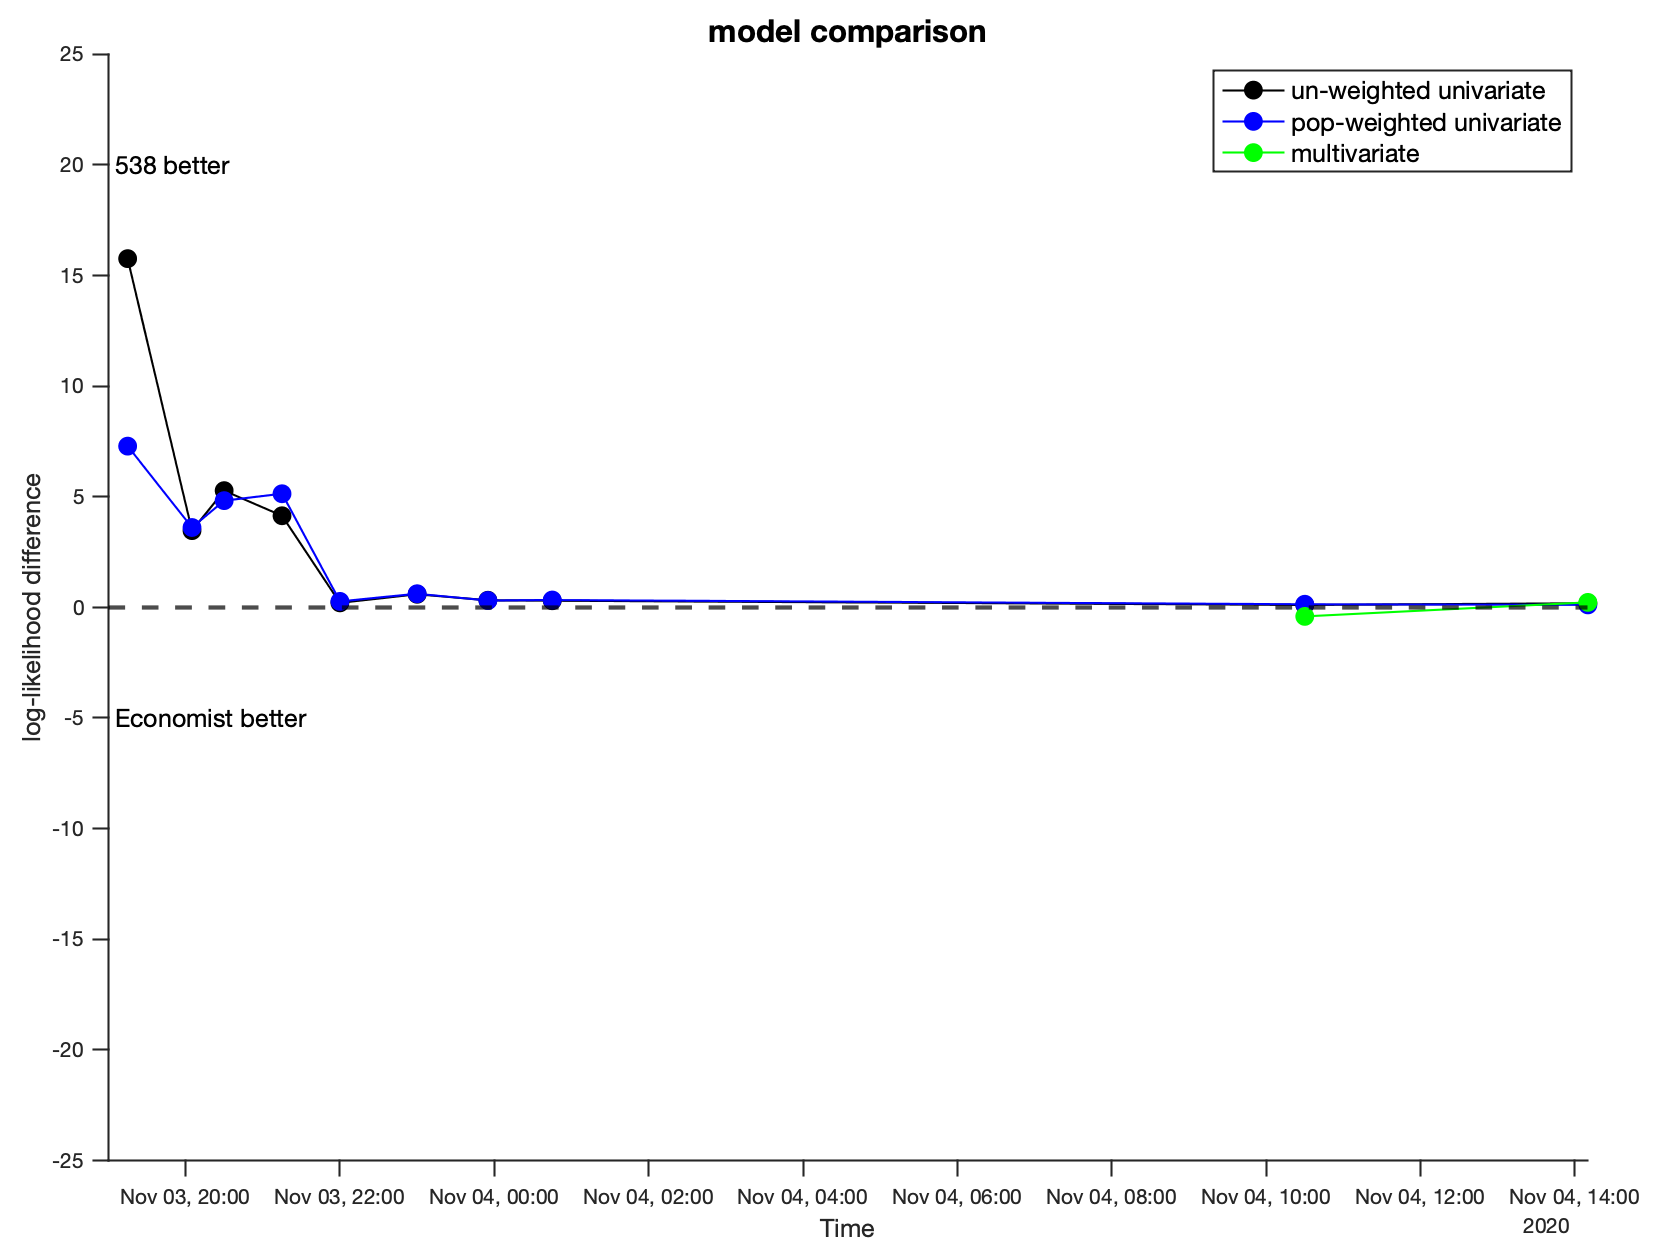
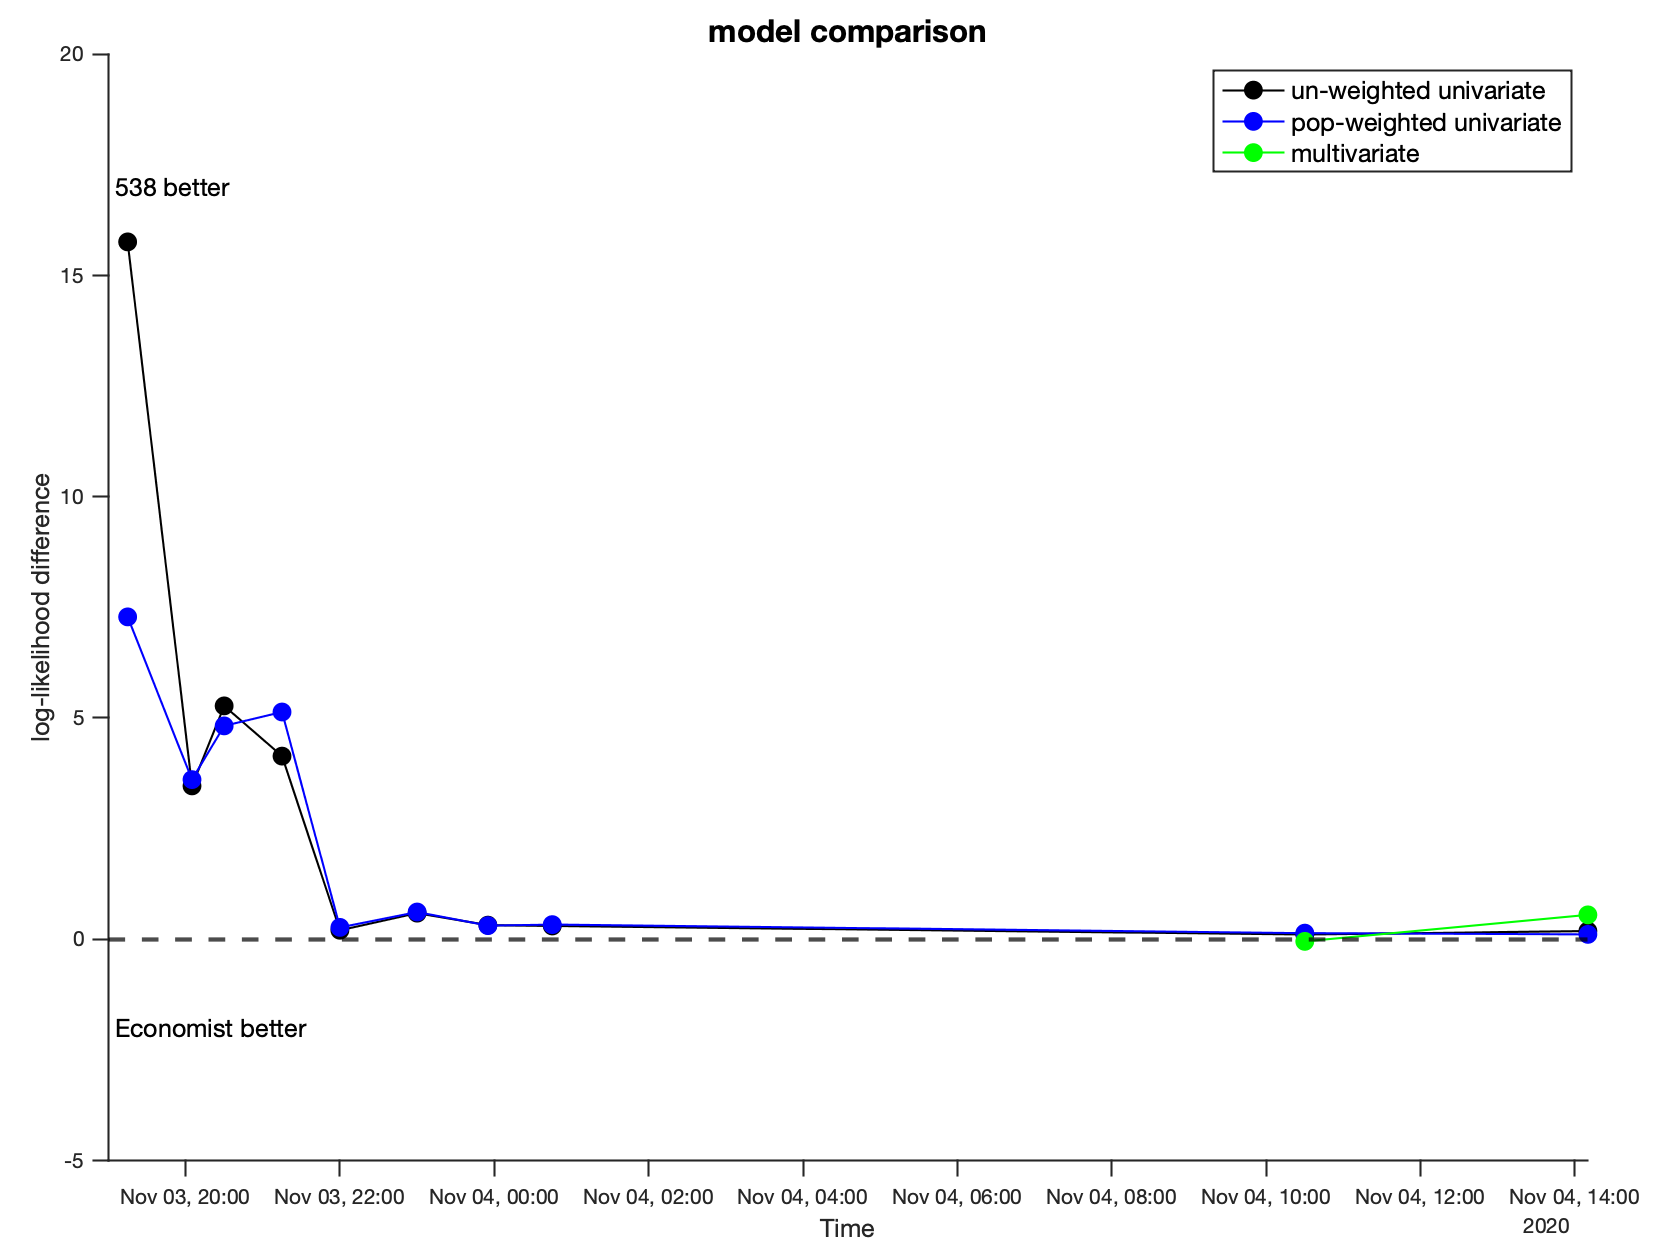
update

diff --git a/compare_models.m b/compare_models.m
@@ -74,10 +74,11 @@ tot_wt_lik_Econ = sum(log(eps + lik_Econ) .* isfinite(r) .* repPopWt./sum(repPop
 
 
 % multivariate model
-mvlik_538 = mvksdensity(d_538, d_r', 'bandwidth', 2*mean([mb_538(ss); mb_Econ(ss)],1), 'Kernel', 'epanechnikov');
-mvlik_Econ = mvksdensity(d_Econ, d_r', 'bandwidth', 2*mean([mb_538(ss); mb_Econ(ss)],1), 'Kernel', 'epanechnikov');
+mvlik_538 = mvksdensity(d_538, d_r', 'bandwidth', 2*mean([mb_538; mb_Econ],1), 'Kernel', 'epanechnikov');
+mvlik_Econ = mvksdensity(d_Econ, d_r', 'bandwidth', 2*mean([mb_538; mb_Econ],1), 'Kernel', 'epanechnikov');
 
 tot_mv_likDif = log(eps+mvlik_538) - log(eps+mvlik_Econ);
+mv_sel = all(isfinite(r));
 
 
 % plot
@@ -88,55 +89,14 @@ tiledlayout('flow','TileSpacing', 'compact', 'Padding', 'compact');
 nexttile;hold on;
 
 p1=plot(curTime, tot_lik_538 - tot_lik_Econ, '-ok', 'LineWidth', 1, 'MarkerFaceColor', 'k', 'MarkerSize', 8);
+p2=plot(curTime, tot_wt_lik_538 - tot_wt_lik_Econ, '-ob', 'LineWidth', 1, 'MarkerFaceColor', 'b', 'MarkerSize', 8);
+p3=plot(curTime(mv_sel), tot_mv_likDif(mv_sel), '-og', 'LineWidth', 1, 'MarkerFaceColor', 'g', 'MarkerSize', 8);
+
 yline(0, '--k', 'LineWidth', 2);
 
-text(datetime([2020 11 3 19 05 00]), 20, '538 better', 'FontSize', 12)
-text(datetime([2020 11 3 19 05 00]), -5, 'Economist better', 'FontSize', 12)
-ylim([min(-25, f_ModelCompare.Children.Children.YLim(1)), max(25, f_ModelCompare.Children.Children.YLim(2))]);
-xlim([datetime([2020 11 3 19 00 00]), max(datetime([2020 11 4 00 00 00]), max(curTime))])
-
-% legend({'', 'population-weighted'}, 'Location', 'northeast','FontSize', 10)
-
-title('un-weighted model comparison', 'FontSize', 15)
-xlabel('Time', 'FontSize', 12)
-ylabel('log-likelihood difference', 'FontSize', 12)
-set(gca, 'TickDir', 'out', 'LineWidth', 1)
-
-
-
-
-% nexttile;hold on;
-
-p2=plot(curTime, tot_wt_lik_538 - tot_wt_lik_Econ, '-ob', 'LineWidth', 1, 'MarkerFaceColor', 'b', 'MarkerSize', 8);
-% yline(0, '--k', 'LineWidth', 2);
-
-
-% text(datetime([2020 11 3 19 05 00]), 20, '538 better', 'FontSize', 12)
-% text(datetime([2020 11 3 19 05 00]), -20, 'Economist better', 'FontSize', 12)
-ylim([min(-25, f_ModelCompare.Children.Children(1).YLim(1)), max(25, f_ModelCompare.Children.Children(1).YLim(2))]);
-xlim([datetime([2020 11 3 19 00 00]), max(datetime([2020 11 4 00 00 00]), max(curTime))])
-
-% legend({'', 'population-weighted'}, 'Location', 'northeast','FontSize', 10)
-
-title('population-weighted model comparison', 'FontSize', 15)
-xlabel('Time', 'FontSize', 12)
-ylabel('log-likelihood difference', 'FontSize', 12)
-set(gca, 'TickDir', 'out', 'LineWidth', 1)
-
-
-
-
-% plot mv
-mv_sel = all(isfinite(r));
-% nexttile;hold on;
-
-p3=plot(curTime(mv_sel), tot_mv_likDif(mv_sel), '-og', 'LineWidth', 1, 'MarkerFaceColor', 'g', 'MarkerSize', 8);
-% yline(0, '--k', 'LineWidth', 2);
-
-
-% text(datetime([2020 11 3 19 05 00]), 20, '538 better', 'FontSize', 12)
-% text(datetime([2020 11 3 19 05 00]), -20, 'Economist better', 'FontSize', 12)
-ylim([min(-25, f_ModelCompare.Children.Children(1).YLim(1)), max(25, f_ModelCompare.Children.Children(1).YLim(2))]);
+text(datetime([2020 11 3 19 05 00]), 17, '538 better', 'FontSize', 12)
+text(datetime([2020 11 3 19 05 00]), -2, 'Economist better', 'FontSize', 12)
+ylim([min(-5, f_ModelCompare.Children.Children.YLim(1)), max(20, f_ModelCompare.Children.Children.YLim(2))]);
 xlim([datetime([2020 11 3 19 00 00]), max(datetime([2020 11 4 00 00 00]), max(curTime))])
 
 % legend({'', 'population-weighted'}, 'Location', 'northeast','FontSize', 10)
@@ -146,7 +106,48 @@ xlabel('Time', 'FontSize', 12)
 ylabel('log-likelihood difference', 'FontSize', 12)
 set(gca, 'TickDir', 'out', 'LineWidth', 1)
 
+
 legend([p1,p2,p3],{'un-weighted univariate', 'pop-weighted univariate', 'multivariate'}, 'Location', 'northeast', 'FontSize', 12)
+
+
+% nexttile;hold on;
+
+% yline(0, '--k', 'LineWidth', 2);
+
+% 
+% % text(datetime([2020 11 3 19 05 00]), 20, '538 better', 'FontSize', 12)
+% % text(datetime([2020 11 3 19 05 00]), -20, 'Economist better', 'FontSize', 12)
+% ylim([min(-25, f_ModelCompare.Children.Children(1).YLim(1)), max(25, f_ModelCompare.Children.Children(1).YLim(2))]);
+% xlim([datetime([2020 11 3 19 00 00]), max(datetime([2020 11 4 00 00 00]), max(curTime))])
+% 
+% % legend({'', 'population-weighted'}, 'Location', 'northeast','FontSize', 10)
+% 
+% title('population-weighted model comparison', 'FontSize', 15)
+% xlabel('Time', 'FontSize', 12)
+% ylabel('log-likelihood difference', 'FontSize', 12)
+% set(gca, 'TickDir', 'out', 'LineWidth', 1)
+% 
+% 
+% 
+% 
+% % plot mv
+% % nexttile;hold on;
+% 
+% % yline(0, '--k', 'LineWidth', 2);
+% 
+% 
+% % text(datetime([2020 11 3 19 05 00]), 20, '538 better', 'FontSize', 12)
+% % text(datetime([2020 11 3 19 05 00]), -20, 'Economist better', 'FontSize', 12)
+% ylim([min(-25, f_ModelCompare.Children.Children(1).YLim(1)), max(25, f_ModelCompare.Children.Children(1).YLim(2))]);
+% xlim([datetime([2020 11 3 19 00 00]), max(datetime([2020 11 4 00 00 00]), max(curTime))])
+% 
+% % legend({'', 'population-weighted'}, 'Location', 'northeast','FontSize', 10)
+% 
+% title('model comparison', 'FontSize', 15)
+% xlabel('Time', 'FontSize', 12)
+% ylabel('log-likelihood difference', 'FontSize', 12)
+% set(gca, 'TickDir', 'out', 'LineWidth', 1)
+
 
 
 
